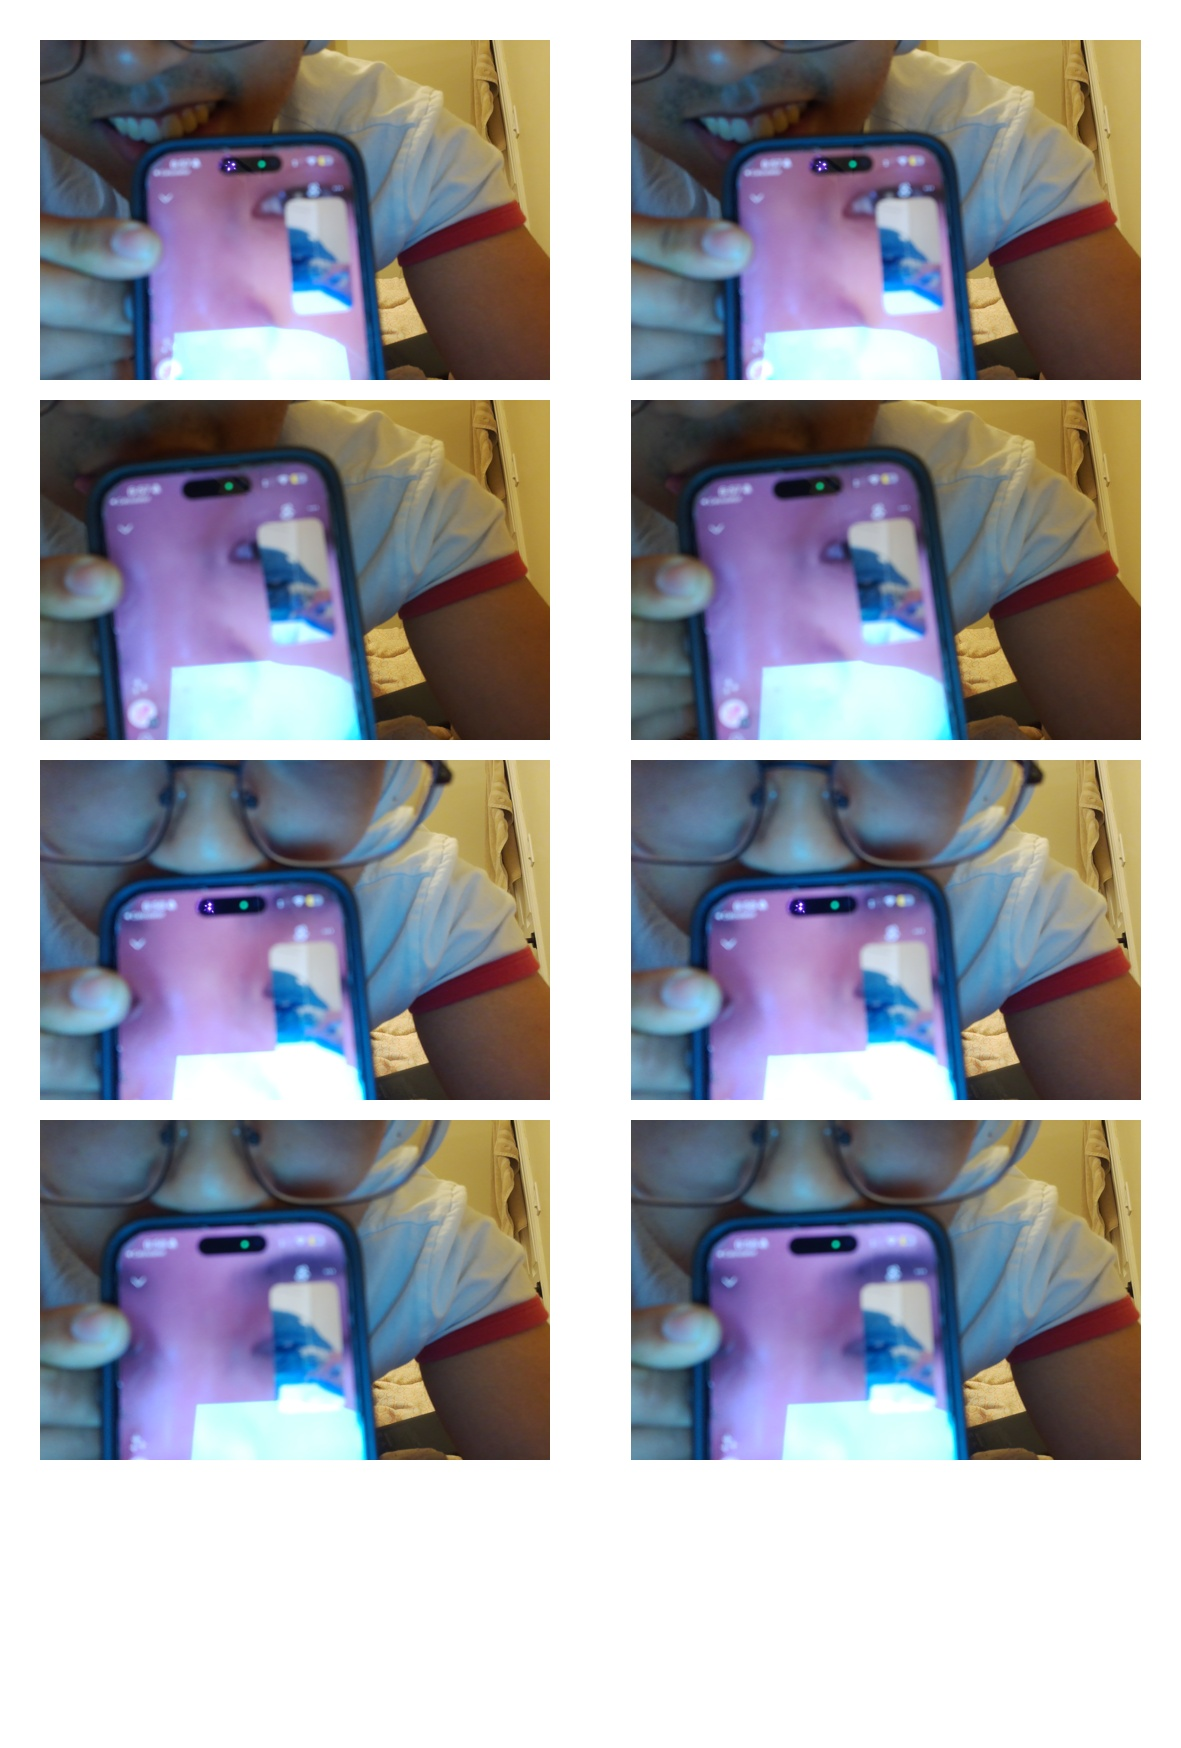
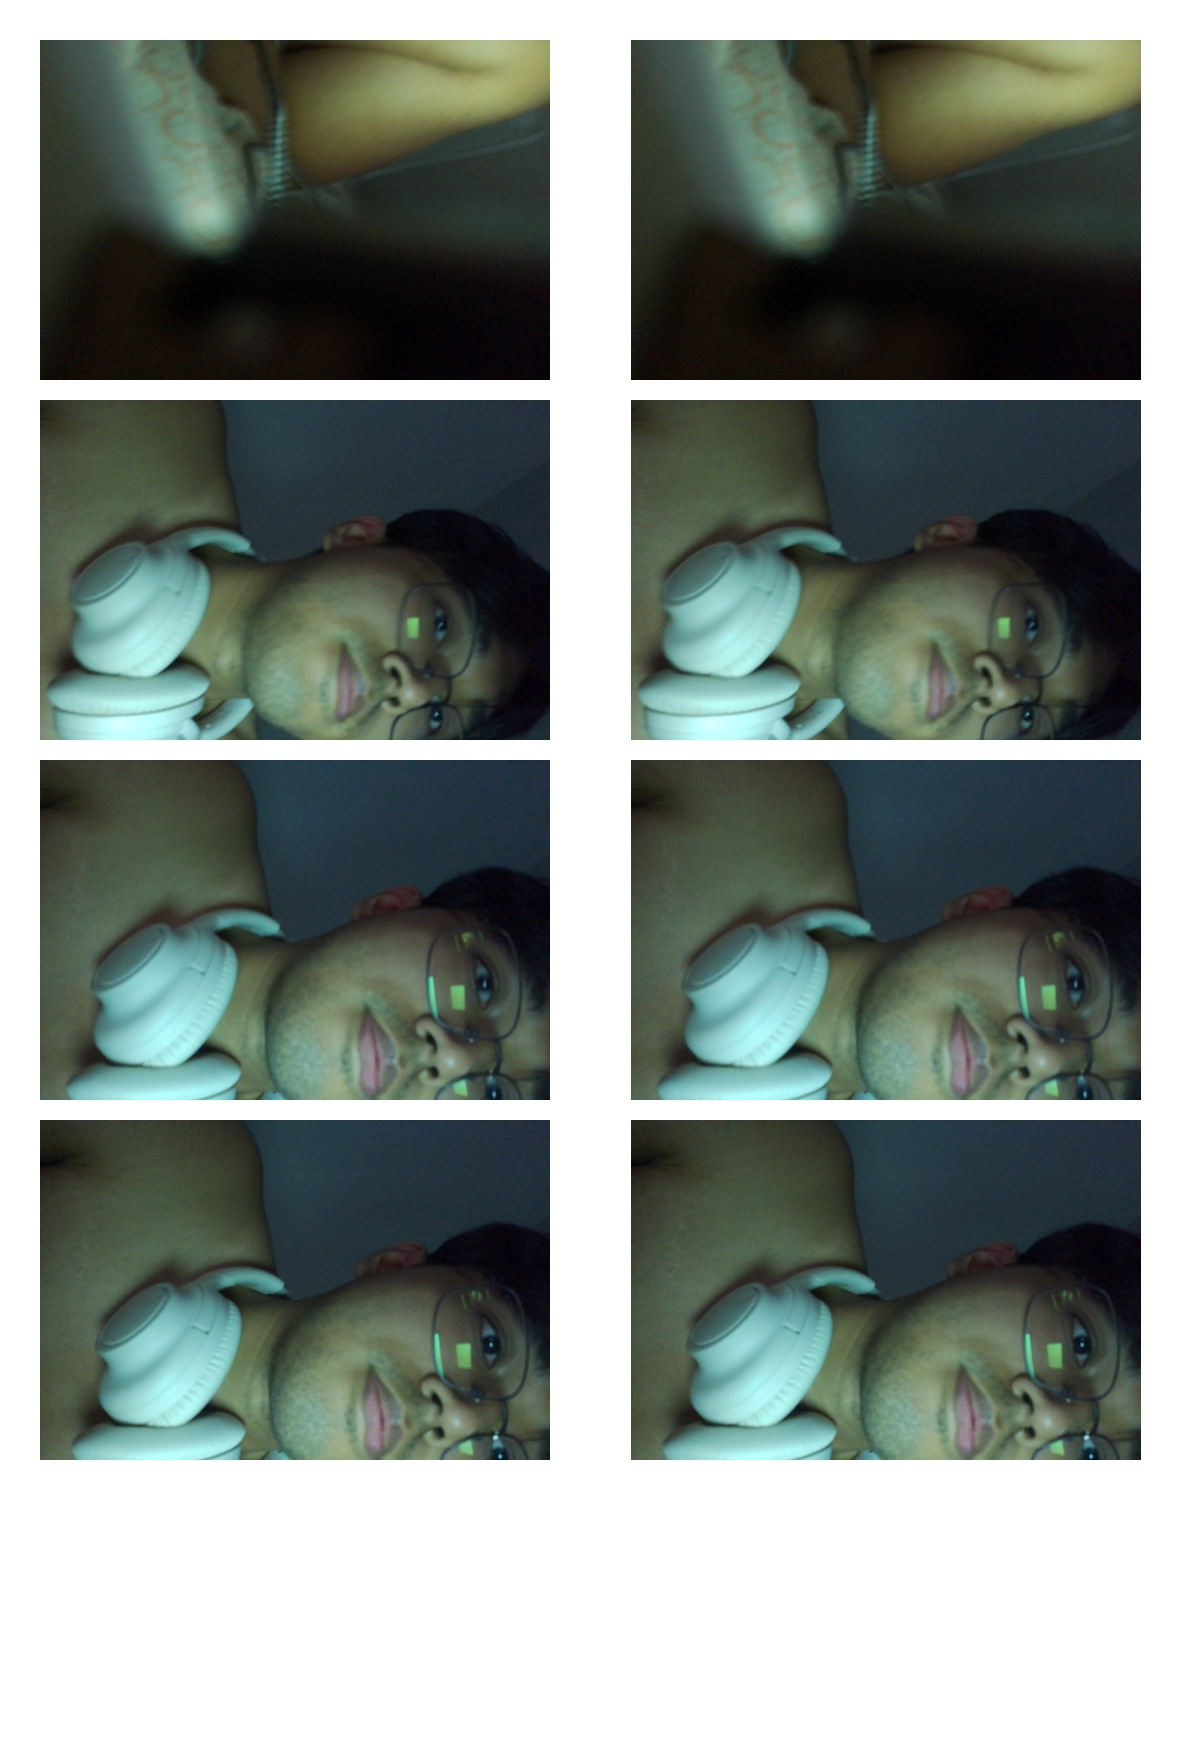
added preview drawings

diff --git a/main/main.py b/main/main.py
@@ -1,8 +1,9 @@
 from picamera2 import Picamera2, Preview
 from libcamera import ColorSpace
-from PIL import Image, ImageOps
+from PIL import Image, ImageOps, ImageDraw, ImageFont
 import time
 import numpy as np
+import math
 
 # Framebuffer (values from /sys/class/graphics/fb0)
 FB_H, STRIDE = 480, 3200
@@ -33,7 +34,42 @@ PHOTO_H = PHOTO_W * 2 // 3                     # 340 (3:2)
 ORIGIN_LEFT = MARGIN                           # 40
 ORIGIN_RIGHT = (PAGE_W - STRIP_W) + MARGIN     # 631
 
-COUNTDOWN_S = 10
+# PREVIEW
+PREV_H, PREV_W = 450, 800
+CROP_W = PREV_H * 3 // 2
+SIDE = (PREV_W - CROP_W) // 2
+COUNTDOWN_S = 3
+
+
+def blend(frame, overlay):
+    arr, box = overlay
+    if box is None:
+        return frame
+    x0, y0, x1, y1 = box
+    f = frame[y0:y1, x0:x1, :3].astype(np.uint16)
+    o = arr[y0:y1, x0:x1, :3].astype(np.uint16)
+    a = arr[y0:y1, x0:x1, 3:4].astype(np.uint16)
+    frame[y0:y1, x0:x1, :3] = ((o * a + f * (255 - a)) // 255).astype(np.uint8)
+    return frame
+
+def build_overlays():
+    big = ImageFont.load_default(size=200)
+    small = ImageFont.load_default(size=36)
+    white, black = (255, 255, 255, 255), (0, 0, 0, 255)
+
+    countdown = {
+        n: make_overlay(lambda d, n=n: d.text((PREV_W // 2, PREV_H // 2), str(n), font=big, fill=white, anchor="mm", stroke_width=6, stroke_fill=black))
+        for n in range(1, COUNTDOWN_S + 1)
+    }
+    counter = {
+        i: make_overlay(lambda d, i=i: d.text((PREV_W - SIDE - 10,10),f"{i} / 4", font=small, fill=white, anchor="ra", stroke_width=3, stroke_fill=black))
+        for i in range(1, 5)
+    }
+    return countdown, counter
+
+def dim_sides(frame):
+    frame[:, :SIDE, :3] //= 2
+    frame[:, PREV_W - SIDE:, :3] //= 2
 
 def camera_init():
     picam2 = Picamera2()
@@ -53,20 +89,31 @@ def write_frame(frame):
     # Select rows 15 to 464 and bytes 0 to 3199
     fb[y0:y0 + h, :w * 4] = frame.reshape(h, w * 4)
 
-def live_preview(picam2, seconds):
+def live_preview(picam2, seconds, countdown=None, counter=None):
     end = time.monotonic() + seconds
-    while time.monotonic() < end:
-        write_frame(picam2.capture_array())
+    while True:
+        remaining = end - time.monotonic()
+        if remaining <= 0:
+            break
+        frame = picam2.capture_array()
+        dim_sides(frame)
+        if counter is not None:
+            blend(frame, counter)
+        if countdown is not None:
+            digit = math.ceil(remaining)       # 3, 2, 1
+            if digit in countdown:
+                blend(frame, countdown[digit])
+        write_frame(frame)
 
-def taking_pics(picam2, capture_config, preview_config,):
+def taking_pics(picam2, capture_config, preview_config, countdown, counter):
     pics = []
     picam2.configure(preview_config)
-    picam2.start(show_preview=True)
+    picam2.start()
 
     # Uncomment if you want to see picture take
     # picam2.capture_file("test.jpg")
     for i in range(4):
-        live_preview(picam2, COUNTDOWN_S)
+        live_preview(picam2, COUNTDOWN_S, countdown, counter[i + 1])
         fb[:] = 255                         # Load frame buffer with white flash while photo is taken
         pics.append(picam2.switch_mode_and_capture_image(capture_config))
      
@@ -86,8 +133,15 @@ def image_processing(pics):
         y += PHOTO_H + GAP
     page.save("print.jpg", quality=95)
 
+def make_overlay(draw_fn, size=(800,450)):
+    img = Image.new("RGBA", size,(0,0,0,0))
+    draw_fn(ImageDraw.Draw(img))
+    arr = np.array(img)[..., [2,1,0,3]] # Pillows RGBA to BGRA to match camera frames
+    return arr, img.getbbox()
+
+countdown, counter = build_overlays()
 picam2, capture_config, preview_config = camera_init()
-pics = taking_pics(picam2, capture_config, preview_config)
+pics = taking_pics(picam2, capture_config, preview_config, countdown, counter)
 image_processing(pics)
 
 
